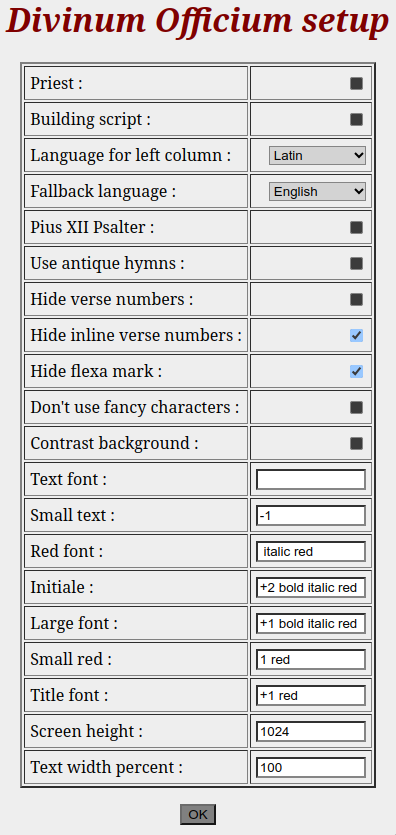
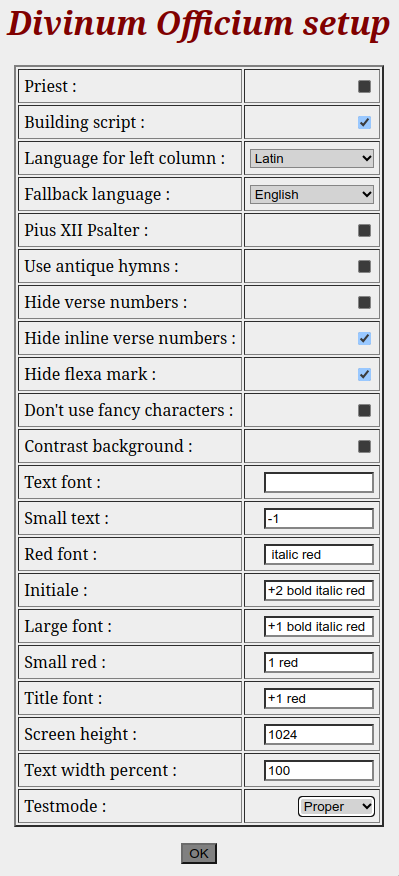
code: reimplement 'testmode' as option

diff --git a/web/www/horas/Help/help.html b/web/www/horas/Help/help.html
@@ -70,7 +70,8 @@ how the Office for the specific hour was composed.<BR>
 <B>Don't use fancy characters</B> check if you can't see these 4 characters in brackets [℟ ℣ ✠ ✙].<BR>
 You may select <B>white or grey background</B> for the tables of the individual hours.<BR>
 The structure of the <B>colors</B> input is: -relative size  [bold] [italic] foreground color.<BR>
-If the starting page image extends far beyond the screen, set <B>screen height</B> to a smaller value.
+If the starting page image extends far beyond the screen, set <B>screen height</B> to a smaller value.<BR>
+<B>Testmode</B> allows change program behaviour: when <I>Temporal</I> is selected all Sanctoral data is ignored and in oposite selecting <I>Sanctoral</I> ignores Temporal data. (This options is probably useful only for developers.)
 <BR><BR></FONT>
 
 Click <span class=prma>OK</span> 
